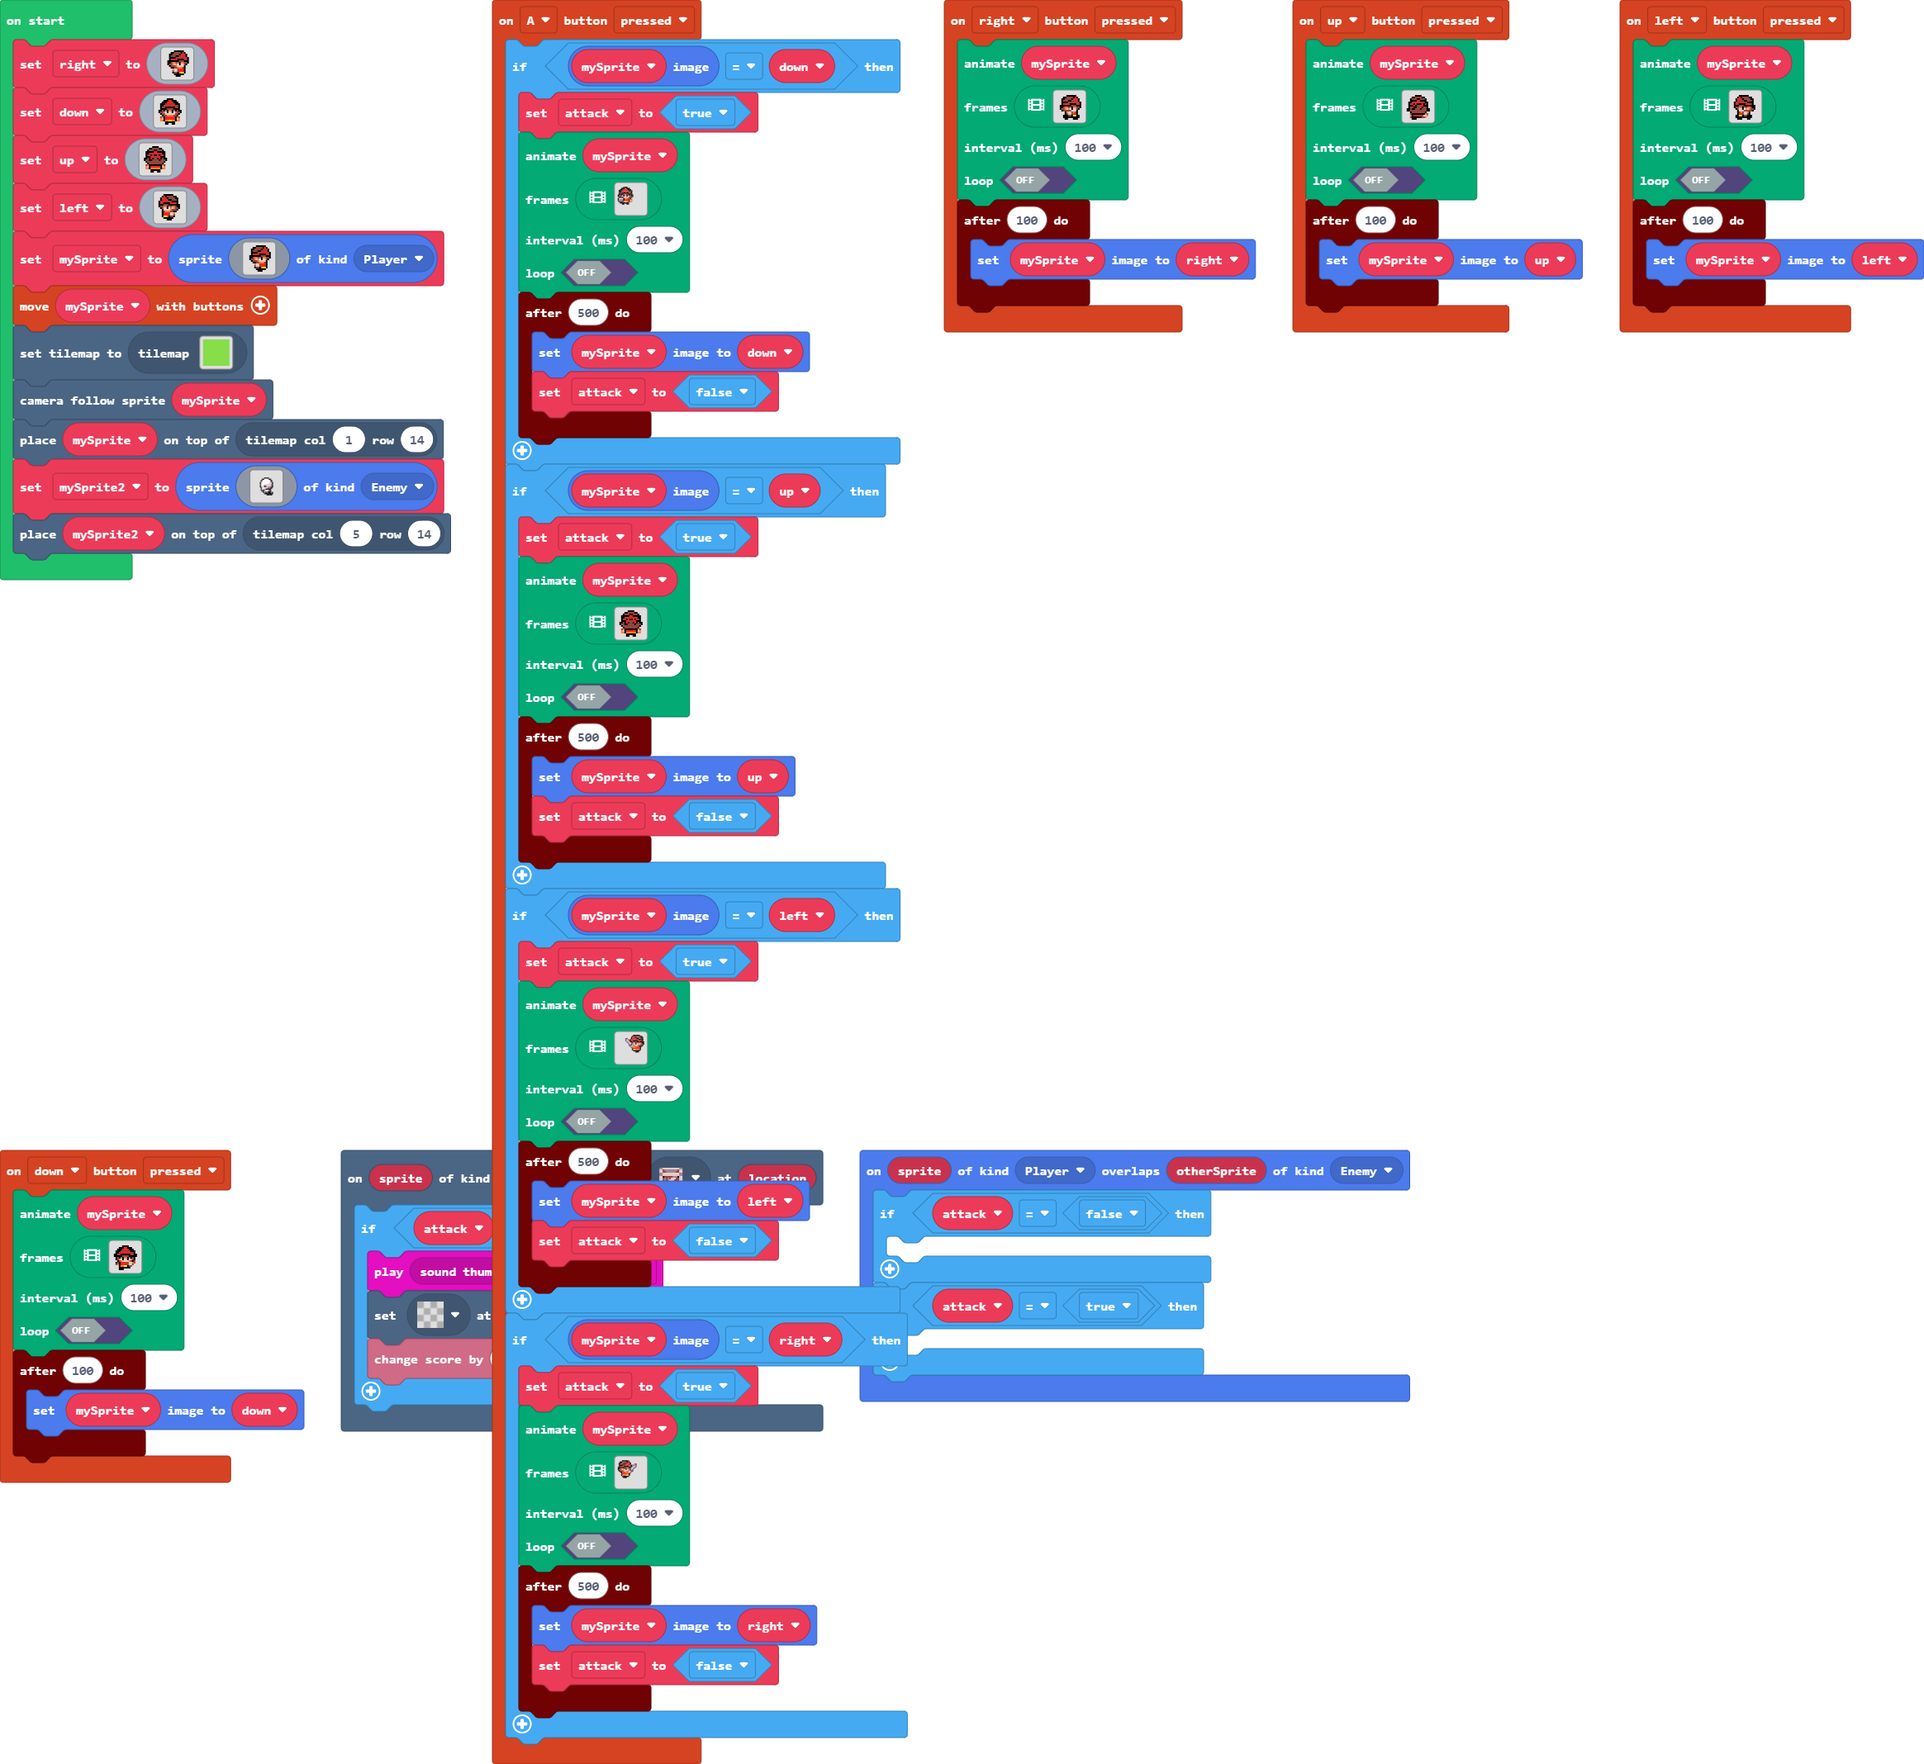
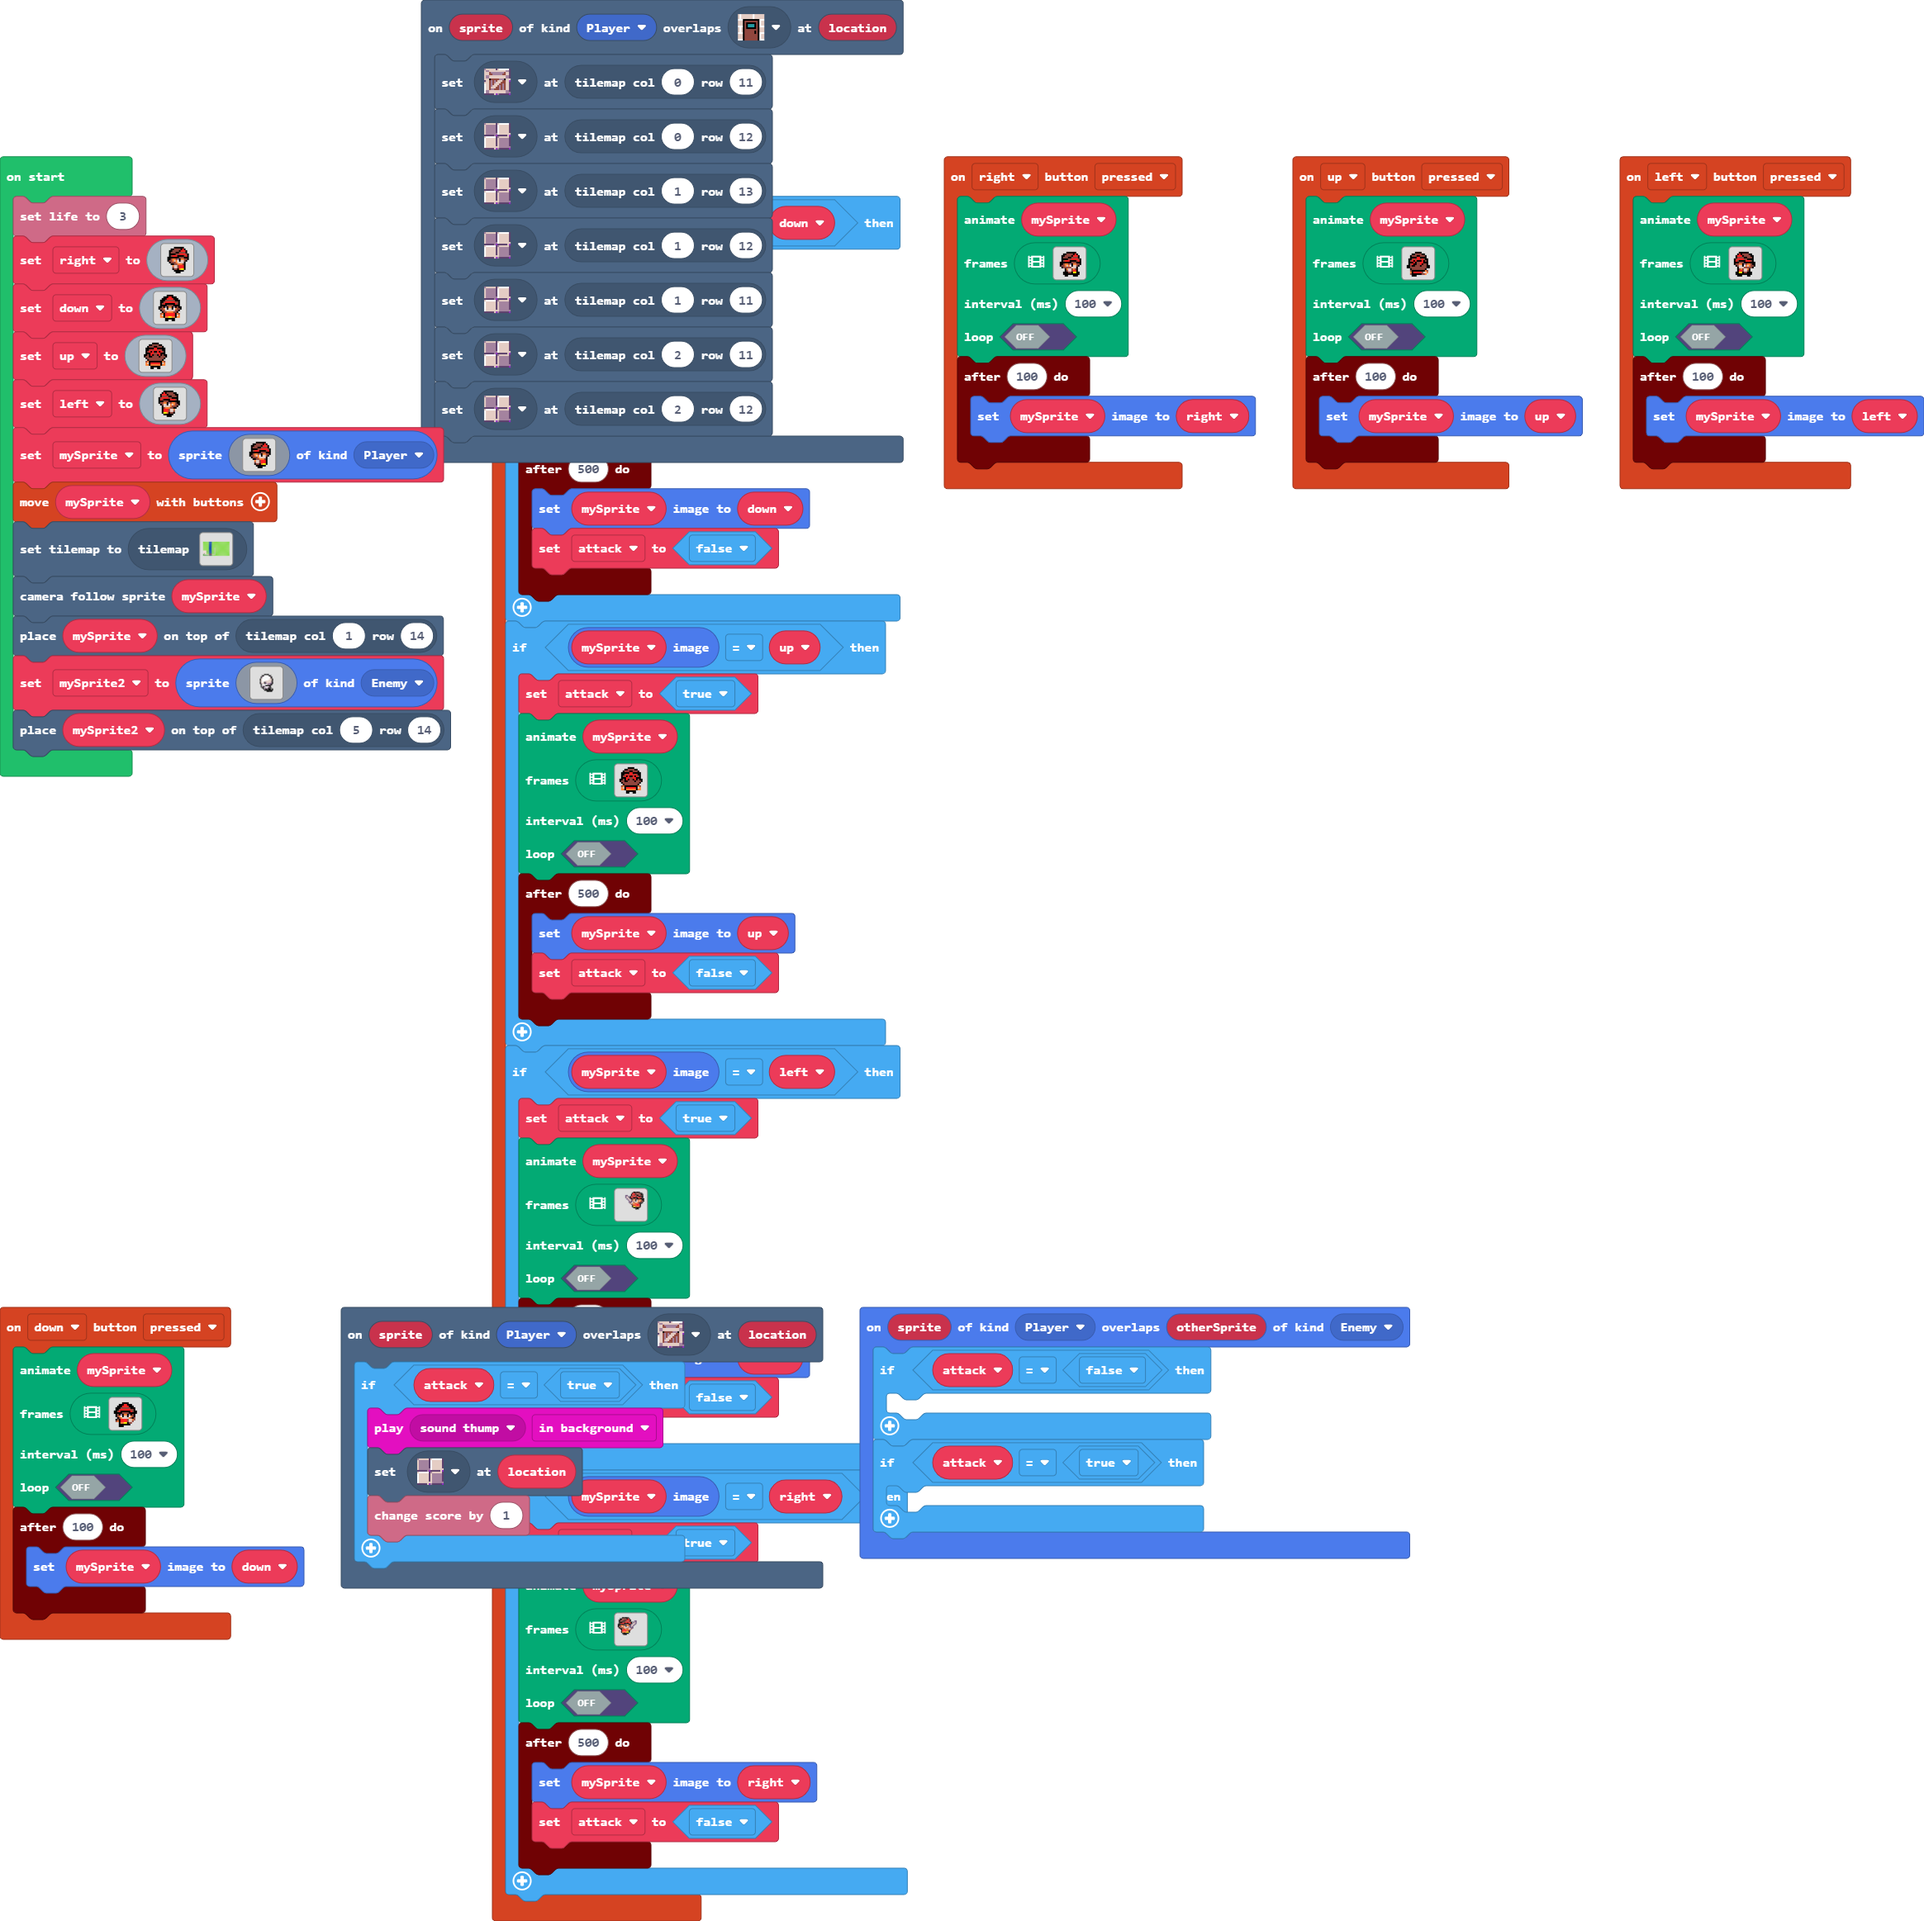
Update main.blocks, main.ts, tilemap.g.jres, tilemap.g.ts

diff --git a/tilemap.g.ts b/tilemap.g.ts
@@ -5,11 +5,41 @@ namespace myTiles {
     //% fixedInstance jres blockIdentity=images._tile
     export const tile2 = image.ofBuffer(hex``);
     //% fixedInstance jres blockIdentity=images._tile
-    export const tile1 = image.ofBuffer(hex``);
-    //% fixedInstance jres blockIdentity=images._tile
     export const tile3 = image.ofBuffer(hex``);
     //% fixedInstance jres blockIdentity=images._tile
     export const tile4 = image.ofBuffer(hex``);
+    //% fixedInstance jres blockIdentity=images._tile
+    export const tile5 = image.ofBuffer(hex``);
+    //% fixedInstance jres blockIdentity=images._tile
+    export const tile6 = image.ofBuffer(hex``);
+    //% fixedInstance jres blockIdentity=images._tile
+    export const tile8 = image.ofBuffer(hex``);
+    //% fixedInstance jres blockIdentity=images._tile
+    export const tile11 = image.ofBuffer(hex``);
+    //% fixedInstance jres blockIdentity=images._tile
+    export const tile12 = image.ofBuffer(hex``);
+    //% fixedInstance jres blockIdentity=images._tile
+    export const tile9 = image.ofBuffer(hex``);
+    //% fixedInstance jres blockIdentity=images._tile
+    export const tile1 = image.ofBuffer(hex``);
+    //% fixedInstance jres blockIdentity=images._tile
+    export const tile10 = image.ofBuffer(hex``);
+    //% fixedInstance jres blockIdentity=images._tile
+    export const tile7 = image.ofBuffer(hex``);
+    //% fixedInstance jres blockIdentity=images._tile
+    export const tile14 = image.ofBuffer(hex``);
+    //% fixedInstance jres blockIdentity=images._tile
+    export const tile13 = image.ofBuffer(hex``);
+    //% fixedInstance jres blockIdentity=images._tile
+    export const tile15 = image.ofBuffer(hex``);
+    //% fixedInstance jres blockIdentity=images._tile
+    export const tile16 = image.ofBuffer(hex``);
+    //% fixedInstance jres blockIdentity=images._tile
+    export const tile17 = image.ofBuffer(hex``);
+    //% fixedInstance jres blockIdentity=images._tile
+    export const tile18 = image.ofBuffer(hex``);
+    //% fixedInstance jres blockIdentity=images._tile
+    export const tile19 = image.ofBuffer(hex``);
 
     helpers._registerFactory("tilemap", function(name: string) {
         switch(helpers.stringTrim(name)) {
@@ -33,24 +63,24 @@ namespace myTiles {
 . . . . . . . . . . . . . . . . 
 `, [myTiles.transparency16], TileScale.Sixteen);
             case "level2":
-            case "level2":return tiles.createTilemap(hex`1000100001010101010101010101010101010101010101010101010101010101010101010101010101010101010101010101010101010101010101010101010101010101010101010101010101010101010101010101010101010101010101010101010101010101010101010101010101010101010101010101010101010101010101010101010101010101010101010101010101010101010101010101010101010101010101010101010101010101010101010101010101010101010101010101010101010101010101010101010101010101010101010101010101010101010101010101010101010101010101010101010101010101010101010101010101010101`, img`
-. . . . . . . . . . . . . . . . 
-. . . . . . . . . . . . . . . . 
-. . . . . . . . . . . . . . . . 
-. . . . . . . . . . . . . . . . 
-. . . . . . . . . . . . . . . . 
-. . . . . . . . . . . . . . . . 
-. . . . . . . . . . . . . . . . 
-. . . . . . . . . . . . . . . . 
-. . . . . . . . . . . . . . . . 
-. . . . . . . . . . . . . . . . 
-. . . . . . . . . . . . . . . . 
-. . . . . . . . . . . . . . . . 
-. . . . . . . . . . . . . . . . 
-. . . . . . . . . . . . . . . . 
-. . . . . . . . . . . . . . . . 
-. . . . . . . . . . . . . . . . 
-`, [myTiles.transparency16,myTiles.tile3], TileScale.Sixteen);
[1 lines of base64/hex data omitted]
+.......222....................
+.......222....................
+.......222....................
+.......222....................
+.......222....................
+.......222....................
+.......222....................
+.......222....................
+.......222....................
+.......222....................
+2222...222....................
+...2...222....................
+...2...222....................
+2.22..........................
+2.............................
+222222.222....................
+`, [myTiles.transparency16,myTiles.tile3,myTiles.tile2,myTiles.tile5,myTiles.tile6,myTiles.tile8,myTiles.tile11,myTiles.tile12,myTiles.tile14,myTiles.tile10,myTiles.tile7,myTiles.tile15,myTiles.tile16,myTiles.tile17,myTiles.tile18,myTiles.tile19], TileScale.Sixteen);
         }
         return null;
     })
@@ -60,12 +90,42 @@ namespace myTiles {
             case "transparency16":return transparency16;
             case "myTile0":
             case "tile2":return tile2;
-            case "myTile":
-            case "tile1":return tile1;
             case "myTile1":
             case "tile3":return tile3;
             case "myTile2":
             case "tile4":return tile4;
+            case "myTile3":
+            case "tile5":return tile5;
+            case "myTile4":
+            case "tile6":return tile6;
+            case "myTile6":
+            case "tile8":return tile8;
+            case "myTile9":
+            case "tile11":return tile11;
+            case "myTile10":
+            case "tile12":return tile12;
+            case "myTile7":
+            case "tile9":return tile9;
+            case "myTile":
+            case "tile1":return tile1;
+            case "myTile8":
+            case "tile10":return tile10;
+            case "myTile5":
+            case "tile7":return tile7;
+            case "myTile12":
+            case "tile14":return tile14;
+            case "myTile11":
+            case "tile13":return tile13;
+            case "myTile13":
+            case "tile15":return tile15;
+            case "myTile14":
+            case "tile16":return tile16;
+            case "myTile15":
+            case "tile17":return tile17;
+            case "myTile16":
+            case "tile18":return tile18;
+            case "myTile17":
+            case "tile19":return tile19;
         }
         return null;
     })

diff --git a/main.ts b/main.ts
@@ -80,7 +80,7 @@ controller.up.onEvent(ControllerButtonEvent.Pressed, function () {
 scene.onOverlapTile(SpriteKind.Player, assets.tile`myTile`, function (sprite, location) {
     if (attack == true) {
         music.play(music.melodyPlayable(music.thump), music.PlaybackMode.InBackground)
-        tiles.setTileAt(location, assets.tile`transparency16`)
+        tiles.setTileAt(location, assets.tile`myTile7`)
         info.changeScoreBy(1)
     }
 })
@@ -693,6 +693,15 @@ controller.down.onEvent(ControllerButtonEvent.Pressed, function () {
         mySprite.setImage(down)
     })
 })
+scene.onOverlapTile(SpriteKind.Player, assets.tile`myTile10`, function (sprite, location) {
+    tiles.setTileAt(tiles.getTileLocation(0, 11), assets.tile`myTile`)
+    tiles.setTileAt(tiles.getTileLocation(0, 12), assets.tile`myTile7`)
+    tiles.setTileAt(tiles.getTileLocation(1, 13), assets.tile`myTile7`)
+    tiles.setTileAt(tiles.getTileLocation(1, 12), assets.tile`myTile7`)
+    tiles.setTileAt(tiles.getTileLocation(1, 11), assets.tile`myTile7`)
+    tiles.setTileAt(tiles.getTileLocation(2, 11), assets.tile`myTile7`)
+    tiles.setTileAt(tiles.getTileLocation(2, 12), assets.tile`myTile7`)
+})
 sprites.onOverlap(SpriteKind.Player, SpriteKind.Enemy, function (sprite, otherSprite) {
     if (attack == false) {
     	
@@ -707,6 +716,7 @@ let left: Image = null
 let up: Image = null
 let down: Image = null
 let right: Image = null
+info.setLife(3)
 right = img`
     . . . . . . f f f f f f . . . . 
     . . . . f f e e e e f 2 f . . . 
